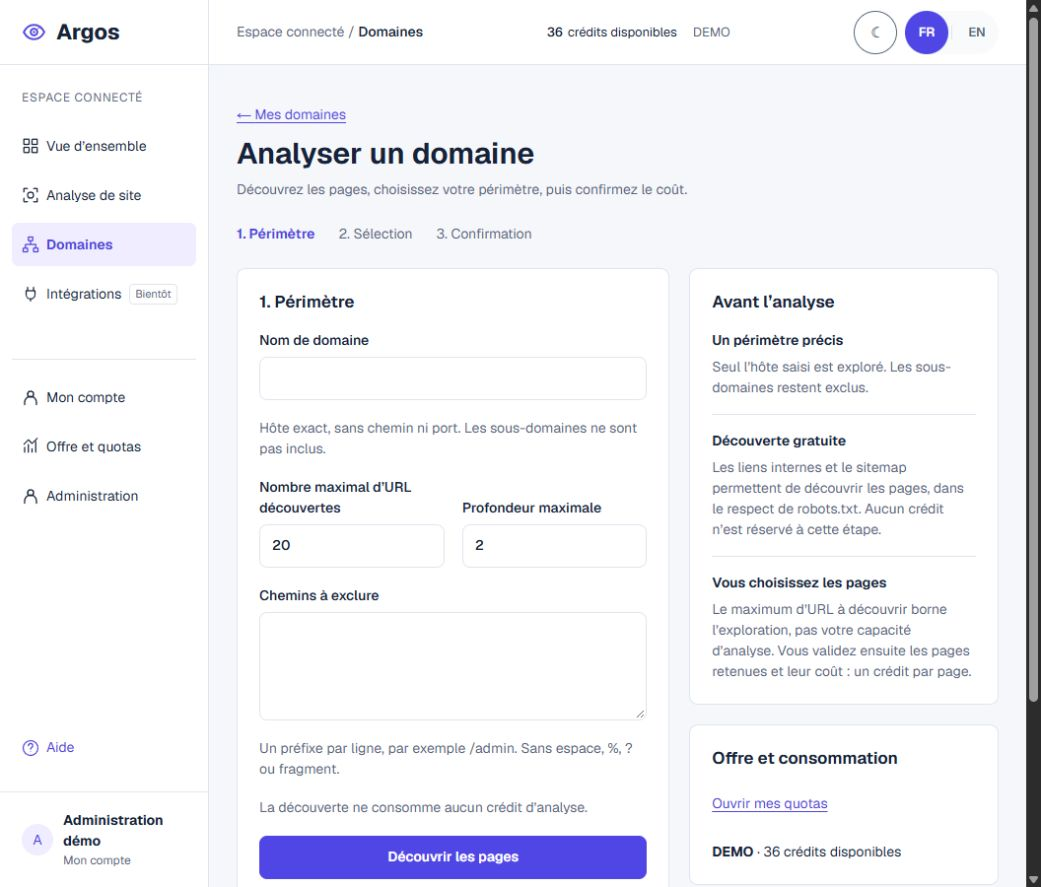
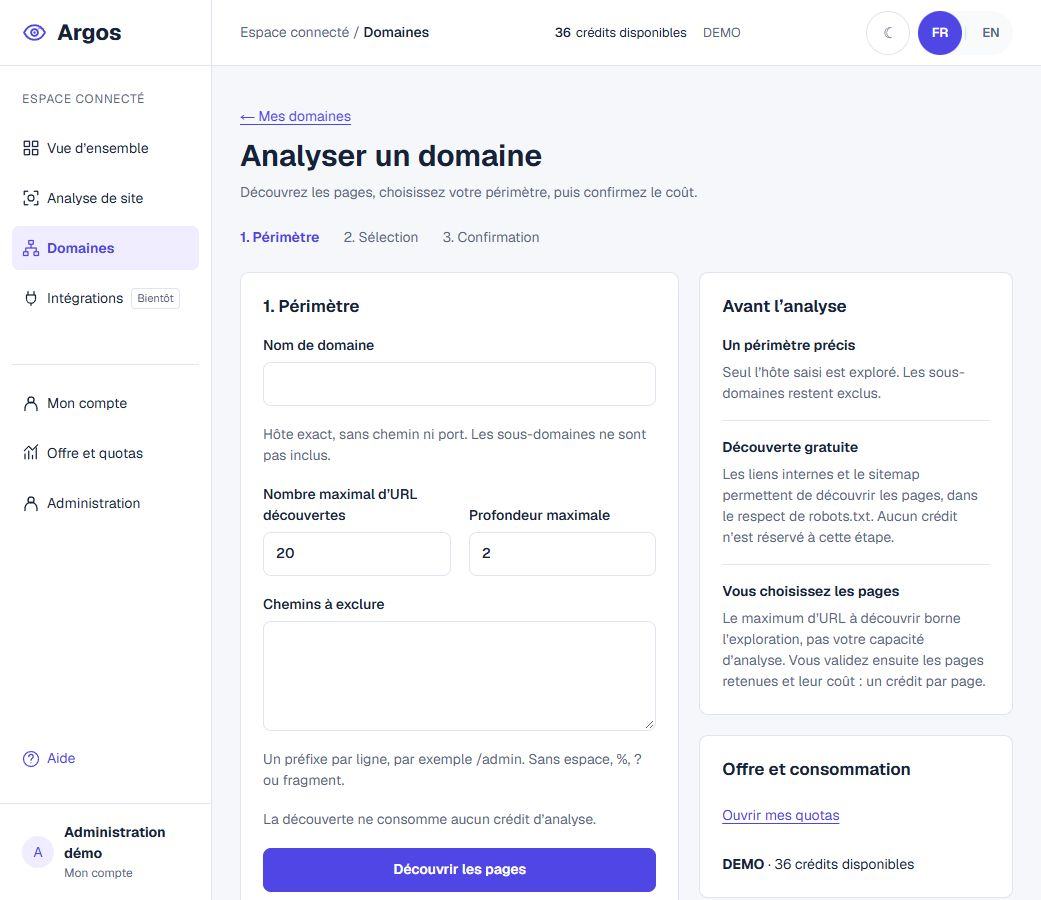
fix(account): retain focus until account-switch input is mounted

diff --git a/apps/console-web/src/components/account/AccountView.tsx b/apps/console-web/src/components/account/AccountView.tsx
@@ -39,10 +39,14 @@ export default function AccountView({mode="sign-in"}:{mode?:Mode}) {
   // Run after inputs are enabled again; disabled fields cannot receive focus.
   useEffect(() => {
     if (busy || !focusTarget.current) return;
-    const target = focusTarget.current;
+    const target = focusTarget.current === "notice"
+      ? noticeRef.current
+      : formRef.current?.querySelector<HTMLInputElement>(`#${focusTarget.current}`);
+    // A pending effect can run before the account-switch form is mounted.
+    // Keep the request until the target exists in the committed DOM.
+    if (!target) return;
     focusTarget.current = null;
-    if (target === "notice") noticeRef.current?.focus();
-    else formRef.current?.querySelector<HTMLInputElement>(`#${target}`)?.focus();
+    target.focus();
   });
   useEffect(() => {
     // Read fragment tokens after hydration, then remove them before further navigation.

diff --git a/docs/connected-space/evidence/clarte-593-598/README.md b/docs/connected-space/evidence/clarte-593-598/README.md
@@ -64,3 +64,17 @@ npm run start -- --hostname 127.0.0.1 --port 3039
 Le serveur de fixtures écoute uniquement sur loopback et refuse toute écriture.
 Ouvrir `/account/domains`, `/account/analyses/new`, `/account/domains/new`,
 `/account/settings`, `/account/usage`, `/account/integrations` et leurs variantes `/en`.
+
+## Validation finale
+
+- Branche remise à jour sur `40b63050` (PR #613, #615 et #616 intégrées).
+- `npm run build` et `npm run lint` : réussis.
+- `npx vitest run --maxWorkers=2` : **82 fichiers, 785 tests réussis**.
+- Vérification éditoriale FR/EN et ses trois tests : réussis.
+- Le passage global a révélé une course de focus existante au changement de
+  compte : l’effet pouvait consommer la demande avant le montage du champ.
+  La demande est désormais conservée jusqu’à l’existence de sa cible. Les 45
+  tests de cet écran passent ; le navigateur confirme le focus sur `email`
+  après « Utiliser un autre compte », sans déconnexion ni soumission.
+- Nouveau contrôle desktop/mobile après rebase : colonnes et champs alignés,
+  ratio complet/retenu sur une seule ligne, aucun débordement du document.
